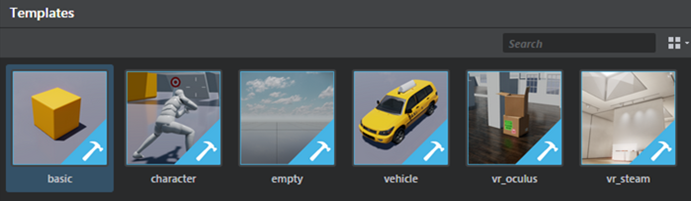
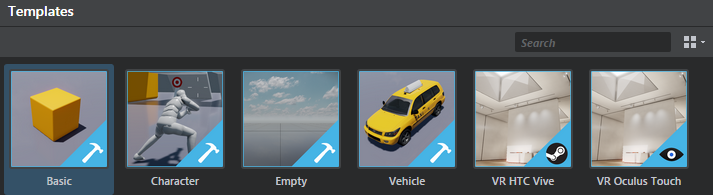
Rename template projects and fix story editor shortcut keys

diff --git a/source/stingray_help/getting_started/set_up_project/template_projects.md b/source/stingray_help/getting_started/set_up_project/template_projects.md
@@ -8,41 +8,41 @@ The Stingray Editor ships with a few sample projects to help you get started. By
 
 ![](../../images/template_projects.png)
 
-The best way to start a new project is always to clone an existing one, like the basic project, rather than starting completely from scratch. This ensures you have the correct project structure built in when it's time to compile your game.
+The best way to start a new project is always to clone an existing one, like the Basic project, rather than starting completely from scratch. This ensures you have the correct project structure built in when it's time to compile your game.
 
-If you want to start with nothing in your project, use the `empty` project to start.
+If you want to start with nothing in your project, use the `Empty` project to start.
 
 > **Tip:** To change the project thumbnail that displays for your project, replace the thumbnail.png image in the sample project folder. The default project thumbnails are 512 x 512 pixels.
 
-## basic
+## Basic
 
 This template has a basic level with units and shows simple FX, shaders, and meshes in a simple shading environment.
 
 It also includes a basic script that lets you spawn a free camera and a walk around camera, then swap between the two by pressing F2.
 
-## character
+## Character
 
 This template includes a basic shooter level with an animated 3D character. It's set up using Lua script. It has an animation controller, simple character animation examples, and the Lua script in player.lua that shows how they are all hooked up. The character shoots a simple physics-based projectile.
 
-## empty
+## Empty
 
 This template defaults back to core/appkit and loads minimal level with a simple camera.
 
-## vehicle
+## Vehicle
 
 This template is a simple vehicle level. It contains a driveable four-wheeled vehicle and the accompanying Lua script to set up the vehicle and the driving physics.
 
-## vr_oculus
+## VR Oculus Touch
 
-This template has a simple Oculus VR level with a floor plan to walk around in. Currently for Windows only. It also includes a basic script that lets you spawn a free camera and a walk around camera (again, swap the two by pressing F2), and Oculus flow nodes.
+This template has a simple VR level with a floor plan to walk around in. Currently for Windows only. It also includes a basic script that lets you spawn a free camera and a walk around camera (again, swap the two by pressing F2), and Oculus flow nodes.
 
 Use an Oculus Rift for projects based on this template.
 
-[![NEW](../../images/new.png "What else is new in v1.6?")](../../release_notes/readme_1.6.html) The vr_oculus template supports input from the Oculus Remote and Oculus Touch Controller. 
+[![NEW](../../images/new.png "What else is new in v1.6?")](../../release_notes/readme_1.6.html) The VR Oculus Touch template supports input from the Oculus Remote and Oculus Touch Controller.
 
-> **Tip:** If the performance is lower for the vr_oculus template projects, make sure that the editor is **not** set to **Update Mode > Always** in the viewport.
+> **Tip:** If the performance is lower for the VR Oculus Touch template projects, make sure that the editor is **not** set to **Update Mode > Always** in the viewport.
 
-## vr_steam
+## VR HTC Vive
 
 This VR template project is set up to showcase the use of Flow in VR to accomplish various tasks and useful VR interactions. It is recommended to use a higher end machine as this was tested on higher end graphics cards.
 

diff --git a/source/stingray_help/cinematics/storyEd_hotkeys.md b/source/stingray_help/cinematics/storyEd_hotkeys.md
@@ -31,9 +31,9 @@
 |----------------------------|-----------------|
 | Play/stop animation | Spacebar |
 | Previous Key | , (Comma)             |
-| Next Key | Alt + ,              |
-| Previous Frame | . (Period)             |
-| Next Frame | Alt + .             |
+| Next Key | . (Period) |
+| Previous Frame | Alt + ,          |
+| Next Frame | Alt + .           |
 
 ---
 Related topics:
